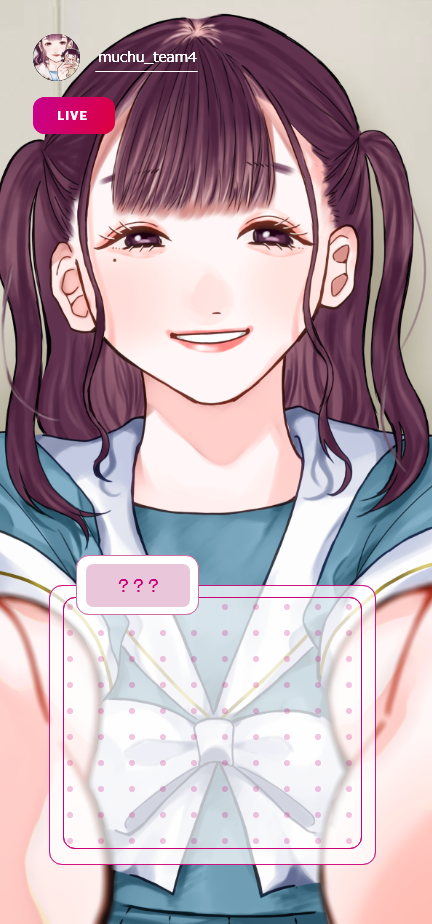
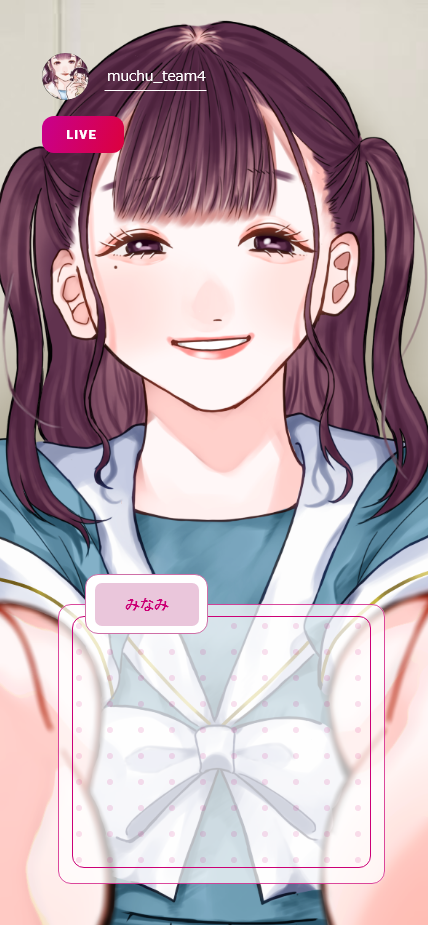
ストーリーの画像変更

diff --git a/story1.css b/story1.css
@@ -36,9 +36,9 @@ div#text_q{
 div#text_s{
     position:relative;
 		top:570px;
-		left:63px;
+		left:75px;
     font-size: 17px;
-    width:290px;
+    width:286px;
     height: 100px;
 }
 
